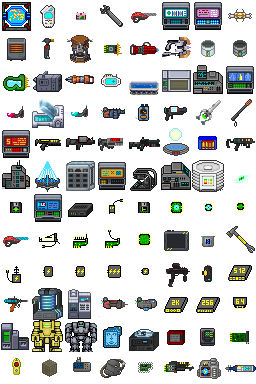
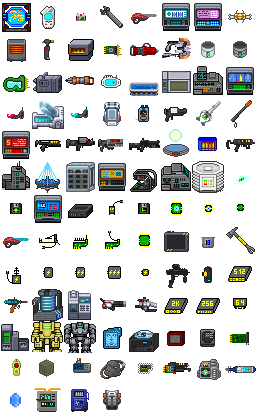
12 pochti gotovo

diff --git a/nano/css/shared.css b/nano/css/shared.css
@@ -782,7 +782,7 @@ th.bot {
 
 .sciTechTreeIcon.icon-spaceheater { background-position: 0px -32px; }
 .sciTechTreeIcon.icon-hypo { background-position: -32px -32px; }
-.sciTechTreeIcon.icon-drillhead { background-position: -64px -32px; }
+.sciTechTreeIcon.icon-smelter { background-position: -64px -32px; }
 .sciTechTreeIcon.icon-circuit { background-position: -96px -32px; }
 .sciTechTreeIcon.icon-pickaxe { background-position: -128px -32px; }
 .sciTechTreeIcon.icon-cutter { background-position: -160px -32px; }
@@ -801,7 +801,7 @@ th.bot {
 .sciTechTreeIcon.icon-add_sec_eq { background-position: 0px -96px; }
 .sciTechTreeIcon.icon-sleeper { background-position: -32px -96px; }
 .sciTechTreeIcon.icon-medhud { background-position: -64px -96px; }
-.sciTechTreeIcon.icon-mecheq { background-position: -96px -96px; }
+.sciTechTreeIcon.icon-mechsleeper { background-position: -96px -96px; }
 .sciTechTreeIcon.icon-gps { background-position: -128px -96px; }
 .sciTechTreeIcon.icon-rapidsyringegun { background-position: -160px -96px; }
 .sciTechTreeIcon.icon-scalpelmanager { background-position: -192px -96px; }
@@ -855,15 +855,15 @@ th.bot {
 .sciTechTreeIcon.icon-decloner { background-position: 0px -288px; }
 .sciTechTreeIcon.icon-fusion { background-position: -32px -288px; }
 .sciTechTreeIcon.icon-chemdisp { background-position: -64px -288px; }
-.sciTechTreeIcon.icon-mechweapon { background-position: -96px -288px; }
-.sciTechTreeIcon.icon-mechrcd { background-position: -128px -288px; }
+.sciTechTreeIcon.icon-mechlaser { background-position: -96px -288px; }
+.sciTechTreeIcon.icon-mechclaw { background-position: -128px -288px; }
 .sciTechTreeIcon.icon-hdd2048 { background-position: -160px -288px; }
 .sciTechTreeIcon.icon-hdd256 { background-position: -192px -288px; }
 .sciTechTreeIcon.icon-hdd64 { background-position: -224px -288px; }
 
 .sciTechTreeIcon.icon-shieldgen { background-position: 0px -320px; }
-.sciTechTreeIcon.icon-mechciv { background-position: -32px -320px; }
-.sciTechTreeIcon.icon-mech { background-position: -64px -320px; }
+.sciTechTreeIcon.icon-mech { background-position: -32px -320px; }
+.sciTechTreeIcon.icon-mechciv { background-position: -64px -320px; }
 .sciTechTreeIcon.icon-ai { background-position: -96px -320px; }
 .sciTechTreeIcon.icon-gene { background-position: -128px -320px; }
 .sciTechTreeIcon.icon-box { background-position: -160px -320px; }
@@ -876,8 +876,13 @@ th.bot {
 .sciTechTreeIcon.icon-kit { background-position: -96px -352px; }
 .sciTechTreeIcon.icon-radiokey { background-position: -128px -352px; }
 .sciTechTreeIcon.icon-hardsuitmodule { background-position: -160px -352px; }
-.sciTechTreeIcon.icon-bluesplace { background-position: -192px -352px; }
+.sciTechTreeIcon.icon-bluespace { background-position: -192px -352px; }
 .sciTechTreeIcon.icon-roboscanner { background-position: -224px -352px; }
+
+.sciTechTreeIcon.icon-bscrystal { background-position: 0px -384px; }
+.sciTechTreeIcon.icon-nav { background-position: -32px -384px; }
+.sciTechTreeIcon.icon-pump { background-position: -64px -384px; }
+.sciTechTreeIcon.icon-eva { background-position: -96px -384px; }
 
 .sciMenuButton {
     width: 300px;
